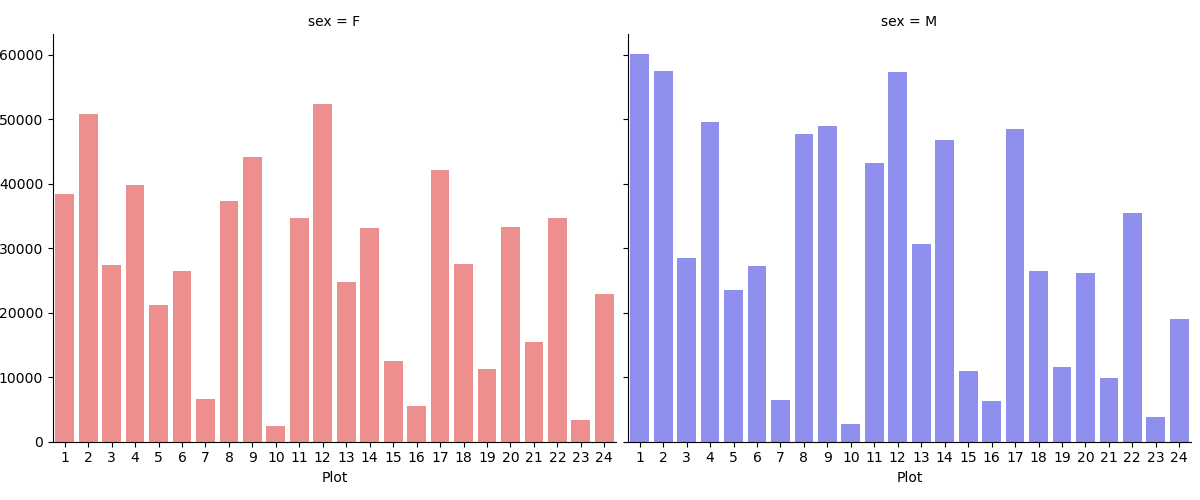
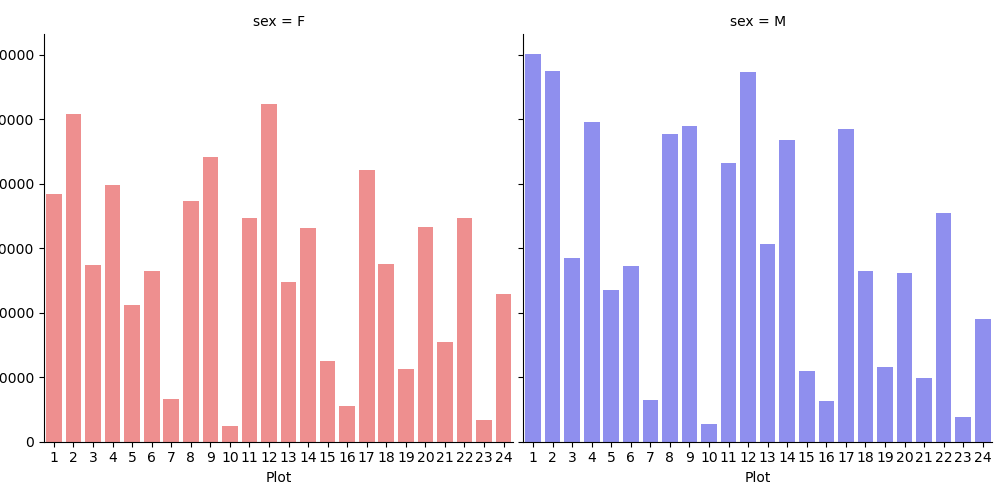
replace facet fig

diff --git a/_episodes/03-starting-with-data.md b/_episodes/03-starting-with-data.md
@@ -1067,7 +1067,7 @@ g.set_axis_labels("Plot", "Weight(g)")
 g.fig.tight_layout()
 
 # Applying the figure size to the FacetGrid object
-g.fig.set_figwidth(15)
+g.fig.set_figwidth(10)
 g.fig.set_figheight(5)
 
 plt.savefig("pandas_plot_sex_count_survey.png")
